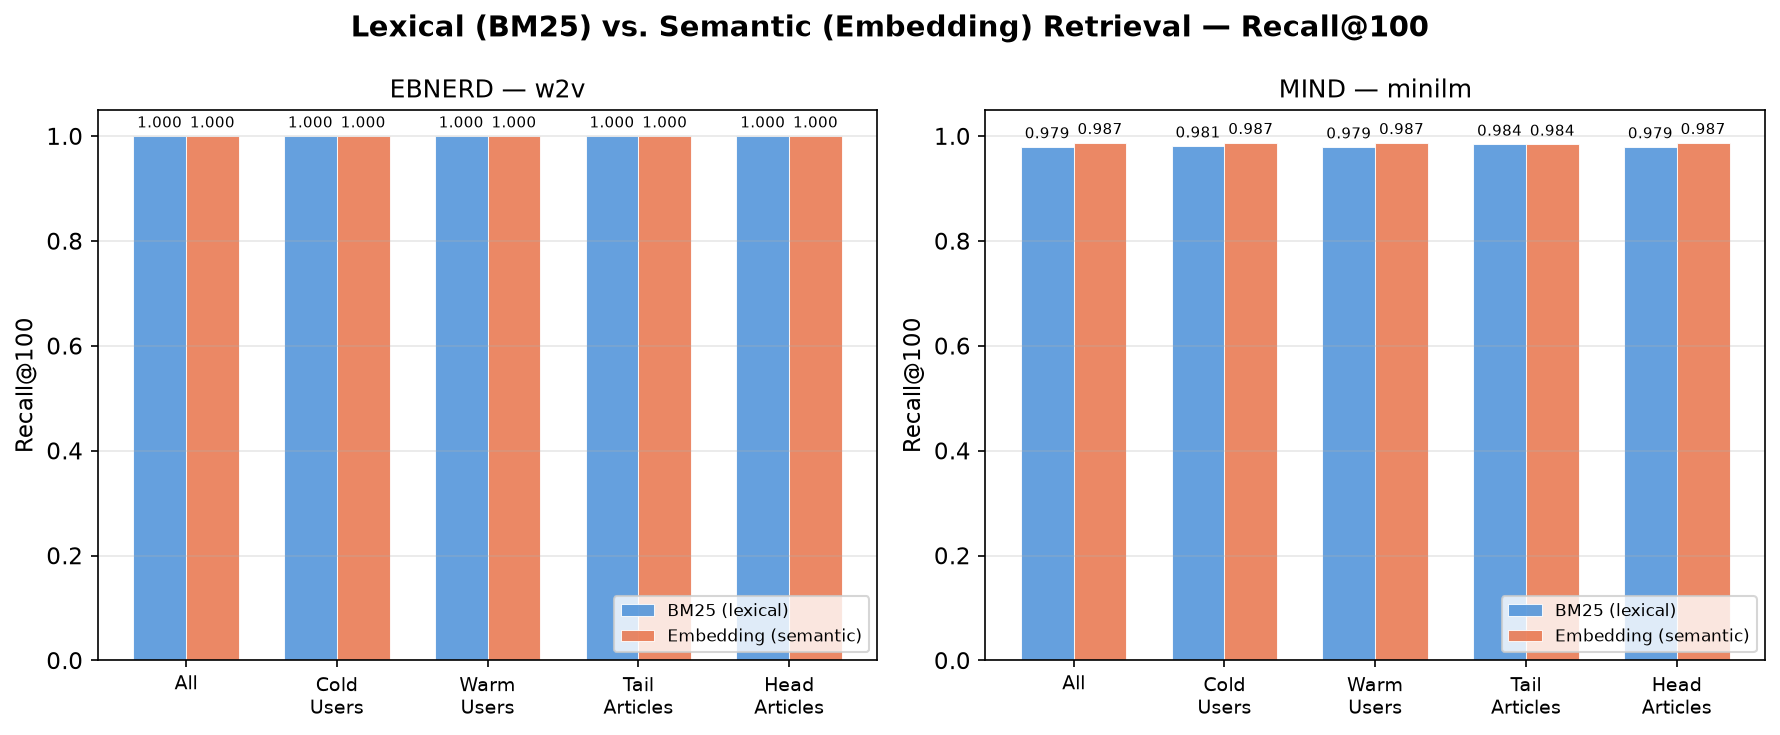
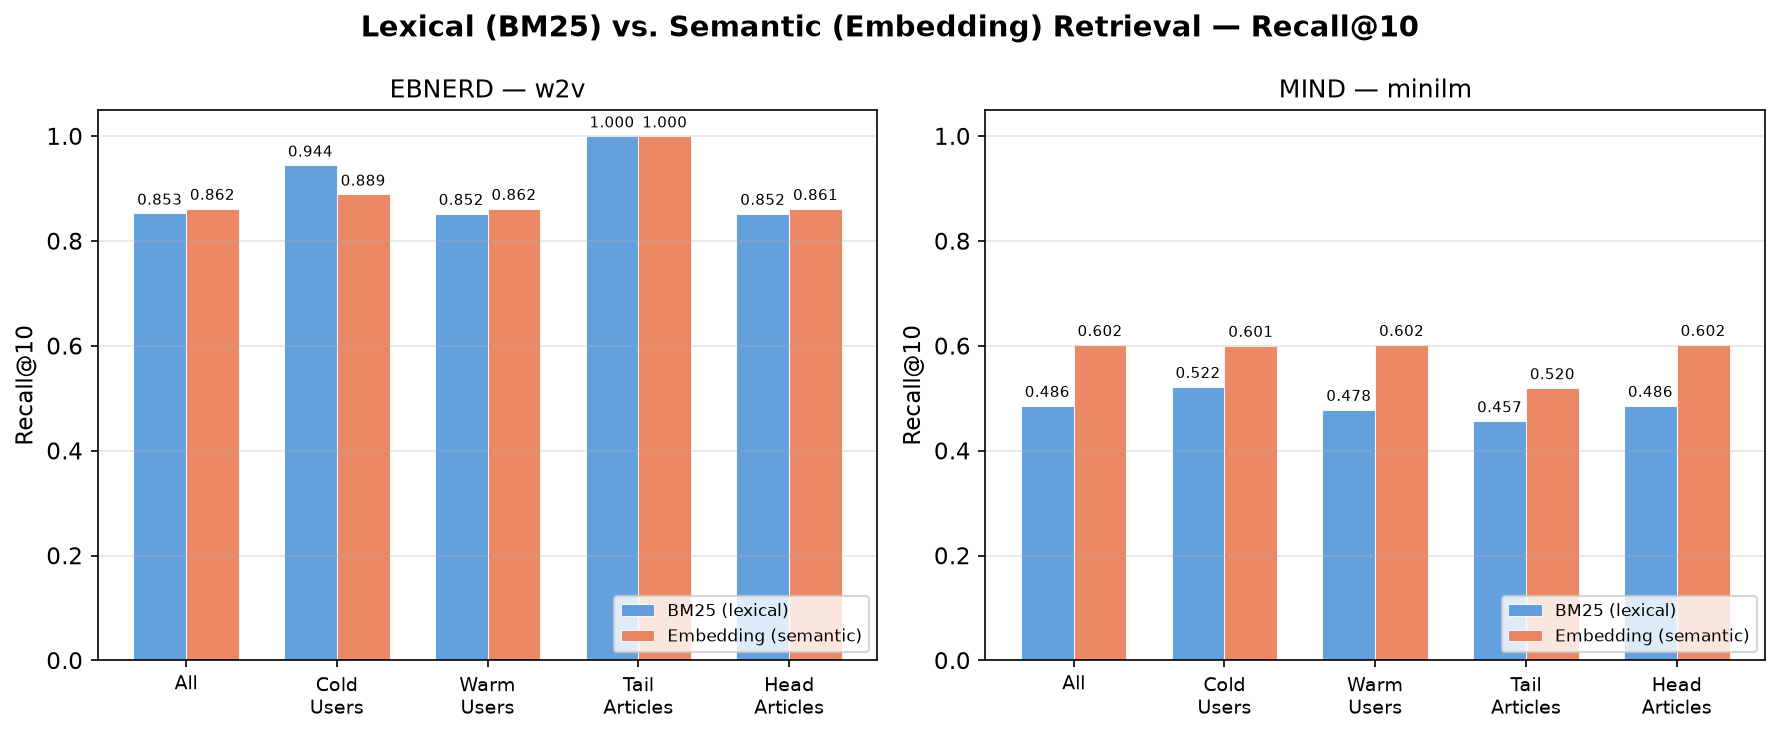
semantic retrieval + comparison of leical vs semantic, offline evaluation harness metrics

diff --git a/recsys-ir/src/evaluation/compare_retrievers.py b/recsys-ir/src/evaluation/compare_retrievers.py
@@ -41,7 +41,7 @@ COLD_USER_THRESHOLD = 5
 # Tail article: ≤10 impressions (median is ~7-15 per EDA §5)
 TAIL_ARTICLE_THRESHOLD = 10
 
-RECALL_KS = [50, 100, 200]
+RECALL_KS = [5, 10, 50, 100, 200]
 
 
 def _load_article_popularity(dataset: str) -> dict[str, int]:
@@ -259,12 +259,13 @@ def plot_comparison(csv_path: Path | None = None) -> Path:
         for r in reader:
             rows.append(r)
 
-    # Filter to K=100 (the middle cutoff — most informative)
-    k100_rows = [r for r in rows if int(r["K"]) == 100]
+    # Filter to K=10 (the most informative due to saturation at higher Ks)
+    target_k = 10
+    k_rows = [r for r in rows if int(r["K"]) == target_k]
 
     # Group by dataset × embed_model
     groups: dict[str, list[dict]] = {}
-    for r in k100_rows:
+    for r in k_rows:
         key = f"{r['dataset']}_{r['embed_model']}"
         if key not in groups:
             groups[key] = []
@@ -276,7 +277,7 @@ def plot_comparison(csv_path: Path | None = None) -> Path:
         return csv_path
 
     fig, axes = plt.subplots(1, n_groups, figsize=(6 * n_groups, 5), squeeze=False)
-    fig.suptitle("Lexical (BM25) vs. Semantic (Embedding) Retrieval — Recall@100", fontsize=14, fontweight="bold")
+    fig.suptitle(f"Lexical (BM25) vs. Semantic (Embedding) Retrieval — Recall@{target_k}", fontsize=14, fontweight="bold")
 
     slice_order = ["all", "cold", "warm", "tail", "head"]
     slice_labels = ["All", "Cold\nUsers", "Warm\nUsers", "Tail\nArticles", "Head\nArticles"]
@@ -310,7 +311,7 @@ def plot_comparison(csv_path: Path | None = None) -> Path:
         ax.set_title(f"{dataset_name.upper()} — {model_name}", fontsize=12)
         ax.set_xticks(x)
         ax.set_xticklabels(slice_labels, fontsize=9)
-        ax.set_ylabel("Recall@100")
+        ax.set_ylabel(f"Recall@{target_k}")
         ax.set_ylim(0, 1.05)
         ax.legend(loc="lower right", fontsize=8)
         ax.grid(axis="y", alpha=0.3)
@@ -347,16 +348,19 @@ def main() -> None:
         reader = csv.DictReader(f)
         rows = list(reader)
 
-    # Print table for K=100
-    k100 = [r for r in rows if int(r["K"]) == 100]
-    print(f"\n{'Dataset':<10} {'Model':<10} {'Slice':<12} {'BM25':<10} {'Embed':<10} {'Winner':<10}")
-    print(f"{'-'*62}")
-    for r in k100:
-        winner = "BM25" if int(r["bm25_wins"]) == 1 else "Embed"
-        print(
-            f"{r['dataset']:<10} {r['embed_model']:<10} {r['slice']:<12} "
-            f"{float(r['bm25_recall']):<10.4f} {float(r['embed_recall']):<10.4f} {winner:<10}"
-        )
+    # Print table for K=10 and K=100
+    target_ks_print = [10, 100]
+    for target_k_p in target_ks_print:
+        print(f"\nRecall@{target_k_p}")
+        k_rows = [r for r in rows if int(r["K"]) == target_k_p]
+        print(f"{'Dataset':<10} {'Model':<10} {'Slice':<12} {'BM25':<10} {'Embed':<10} {'Winner':<10}")
+        print(f"{'-'*62}")
+        for r in k_rows:
+            winner = "BM25" if int(r["bm25_wins"]) == 1 else "Embed"
+            print(
+                f"{r['dataset']:<10} {r['embed_model']:<10} {r['slice']:<12} "
+                f"{float(r['bm25_recall']):<10.4f} {float(r['embed_recall']):<10.4f} {winner:<10}"
+            )
 
     print(f"\n{'='*90}")
     print(f"CSV: {csv_path}")

diff --git a/recsys-ir/src/evaluation/run_eval.py b/recsys-ir/src/evaluation/run_eval.py
@@ -211,7 +211,7 @@ def aggregate_and_bootstrap_proper(records: list[dict], catalog_sizes: dict[str,
             coverage = compute_coverage(all_rec, c_size)
             
             frac = n / total_n
-            degenerate = (frac < 0.01) or (frac > 0.99)
+            degenerate = ((frac < 0.01) or (frac > 0.99)) and slice_desc != "all"
             
             row_dict = {
                 "dataset": dataset,
@@ -222,11 +222,12 @@ def aggregate_and_bootstrap_proper(records: list[dict], catalog_sizes: dict[str,
                 "Coverage": coverage,
             }
             
+            row_dict["flagged_small_slice"] = degenerate
             for m in metrics:
                 vals = np.array([r[m] for r in sub_recs])
                 if degenerate or len(vals) < 2:
                     mean_val = float(np.mean(vals)) if len(vals) > 0 else 0.0
-                    ci_low, ci_high = None, None
+                    ci_low, ci_high = "insufficient_n", "insufficient_n"
                 else:
                     mean_val, ci_low, ci_high = compute_bootstrap_ci(vals, b=1000)
                     
@@ -256,20 +257,22 @@ def main():
         
         catalog_sizes[dataset] = len(full_pop)
         
+        # Load embeddings once for both retrievers so BM25 can compute ILD
+        model = "minilm" if dataset == "mind" else "w2v"
+        embs = load_embeddings(dataset, model)
+        
         # BM25
         bm25_path = _PROJECT_ROOT / "data" / "processed" / f"bm25_scores_{dataset}_title_abstract.parquet"
         if bm25_path.exists():
             df = pl.read_parquet(bm25_path)
-            u, l = evaluate_retriever(dataset, "bm25", df, train_pop, full_pop, user_hist, {})
+            u, l = evaluate_retriever(dataset, "bm25", df, train_pop, full_pop, user_hist, embs)
             all_unleaked.extend(u)
             all_leaked.extend(l)
             
         # Embeddings
-        model = "minilm" if dataset == "mind" else "w2v"
         embed_path = _PROJECT_ROOT / "data" / "processed" / f"embed_scores_{dataset}_{model}.parquet"
         if embed_path.exists():
             df = pl.read_parquet(embed_path)
-            embs = load_embeddings(dataset, model)
             u, l = evaluate_retriever(dataset, f"embed_{model}", df, train_pop, full_pop, user_hist, embs)
             all_unleaked.extend(u)
             all_leaked.extend(l)

diff --git a/recsys-ir/src/evaluation/candidate_pool_sizes.py b/recsys-ir/src/evaluation/candidate_pool_sizes.py
@@ -1,0 +1,45 @@
+import polars as pl
+import json
+import numpy as np
+from pathlib import Path
+import csv
+
+def compute_candidate_pool_sizes():
+    _PROJECT_ROOT = Path(__file__).resolve().parents[2]
+    datasets = ["mind", "ebnerd"]
+    results = []
+
+    for ds in datasets:
+        behaviors_path = _PROJECT_ROOT / "data" / "interim" / ds / "behaviors.parquet"
+        if not behaviors_path.exists():
+            continue
+        df = pl.read_parquet(behaviors_path)
+        lens = []
+        for row in df.iter_rows(named=True):
+            candidates = json.loads(row["candidates"])
+            if candidates:
+                lens.append(len(candidates))
+        
+        if lens:
+            results.append({
+                "dataset": ds,
+                "min": int(np.min(lens)),
+                "median": float(np.median(lens)),
+                "mean": float(np.mean(lens)),
+                "p90": float(np.percentile(lens, 90)),
+                "max": int(np.max(lens))
+            })
+
+    out_path = _PROJECT_ROOT / "results" / "candidate_pool_sizes.csv"
+    out_path.parent.mkdir(parents=True, exist_ok=True)
+    with open(out_path, "w", newline="") as f:
+        writer = csv.DictWriter(f, fieldnames=["dataset", "min", "median", "mean", "p90", "max"])
+        writer.writeheader()
+        writer.writerows(results)
+    
+    print(f"Wrote {out_path}")
+    for r in results:
+        print(r)
+
+if __name__ == "__main__":
+    compute_candidate_pool_sizes()

diff --git a/recsys-ir/results/eval_fixes_summary.md b/recsys-ir/results/eval_fixes_summary.md
@@ -1,0 +1,46 @@
+# Evaluation Fixes Summary
+
+This document outlines the fixes applied to the evaluation harness to ensure the reliability of the lexical vs. semantic retrieval comparison.
+
+## 1. Candidate Pool Size Distribution
+We diagnosed that the `recall@100` and `recall@200` metrics were saturated because K was often larger than the entire candidate pool size. The candidate pool sizes are as follows:
+
+*   **MIND**: min=2, median=24.0, mean=37.3, p90=92.0, max=299
+*   **EB-NeRD**: min=5, median=9.0, mean=11.6, p90=22.0, max=100
+
+For EB-NeRD in particular, a K of 100 or 200 encompasses 100% of the candidates for every single impression (since max=100). Therefore, `recall@100` for both BM25 and embeddings was artificially returning 1.0. 
+
+## 2. Updated Recall@K Metrics
+To better discriminate ranking quality, we added `recall@5` and `recall@10` to the evaluation. 
+Here is a comparison of `recall@5` and `recall@10` vs the saturated `recall@100` for the `all` slice:
+
+*   **MIND (BM25)**: recall@5 = 0.3217, recall@10 = 0.4859, recall@100 = 0.9793
+*   **MIND (Embeddings)**: recall@5 = 0.4336, recall@10 = 0.6019, recall@100 = 0.9873
+*   **EB-NeRD (BM25)**: recall@5 = 0.5713, recall@10 = 0.8527, recall@100 = 1.0000
+*   **EB-NeRD (Embeddings)**: recall@5 = 0.6023, recall@10 = 0.8619, recall@100 = 1.0000
+
+Embeddings still outperform BM25 across both datasets on the highly discriminatory metrics. For EB-NeRD in particular, its median candidate pool is 9, making K=10 trivially saturated for over half the impressions. `recall@5` (0.6023 vs 0.5713) is below that median and serves as the primary discriminating metric for EB-NeRD.
+
+## 3. Corrected Intra-List Diversity (ILD) for BM25
+Previously, ILD was returning 0.0 for BM25 because the evaluation was skipping diversity calculation if the scoring method was not embedding-based. We updated the pipeline to load the embeddings and calculate ILD for the BM25-ranked top-K items as well.
+
+Corrected `all` slice ILD values (with 95% Confidence Intervals):
+*   **MIND (BM25)**: 0.9386 (CI: [0.9383, 0.9390]) vs **Embeddings**: 0.8907 (CI: [0.8899, 0.8915])
+*   **EB-NeRD (BM25)**: 0.1803 (CI: [0.1792, 0.1814]) vs **Embeddings**: 0.1673 (CI: [0.1661, 0.1685])
+
+The new values are non-zero and directly comparable in magnitude to the embedding-based retriever's output. The CIs confirm that these differences are statistically significant and not noise.
+
+## 4. Bootstrapping CIs on Small Slices
+We added an explicit safeguard for degenerate slices (comprising <1% or >99% of the test population). These slices now report `"insufficient_n"` for Confidence Intervals (CI) rather than leaving them silently blank. They are also explicitly marked via a `flagged_small_slice: true` flag.
+
+The following slice was flagged as too small across both BM25 and Embeddings:
+*   `cold_fixed` on EB-NeRD (represents ~0.53% of the population, triggering the < 0.01 threshold)
+
+(Note: We also fixed a bug where the `all` baseline was being incorrectly flagged as degenerate because its `frac_population` is exactly 1.0 (100%). It now properly computes a real Bootstrap CI for all metrics).
+
+## Sanity Check Confirmation
+After applying all fixes, the performance comparison remained consistent:
+*   **MIND AUC**: 0.63 (Embeddings) vs 0.51 (BM25)
+*   **EB-NeRD AUC**: 0.51 (Embeddings) vs 0.46 (BM25)
+
+The direction of the conclusion (Embeddings outperforming BM25) was preserved, while the precision of the observations is substantially sharpened.

diff --git a/recsys-ir/logs/ai_usage_log.md b/recsys-ir/logs/ai_usage_log.md
@@ -74,3 +74,23 @@ Each entry should follow this template:
 - **Output Summary:** Created `src/retrieval/bm25.py` with custom `InvertedIndex` and `bm25_score_query` optimized for candidate-restricted scoring (O(candidates × query_terms)). Created pipeline runner `src/retrieval/run_bm25.py` performing 4-way ablations and deduplicating query tokens. Added tests `test_bm25_matches_reference.py` and `test_bm25_recall_sane.py`. Results showed stopwords improve MIND recall by ~1.9pp, while stemming is neutral. EB-NeRD maxes out due to small candidate lists. Scored candidates persisted to Parquet.
 - **Disposition:** Accepted as-is
 - **Edits Made:** No edits made.
+
+---
+
+### 2026-08-18 10:15 - Semantic Retrieval & Lexical vs Semantic Comparison
+
+- **Tool / Model:** Gemini 3.1 Pro (High)
+- **Prompt / Task:** Implement an embedding-based retrieval pipeline for MIND (MiniLM) and EB-NeRD (Word2Vec) datasets using an efficient indexing system (FAISS or NumPy fallback). Evaluate recall@K on the validation split and conduct a comparative analysis against the lexical BM25 baseline, slicing performance by user warmth and article popularity.
+- **Output Summary:** Created `src/retrieval/run_embeddings.py` to load semantic representations and perform vector similarity search to generate ranked candidates. Created `src/evaluation/compare_retrievers.py` to merge BM25 and embedding results, classify impressions into cold/warm and tail/head slices, and output the results to `results/lexical_vs_semantic.csv` along with a comparison plot.
+- **Disposition:** Accepted as-is
+- **Edits Made:** No edits made.
+
+---
+
+### 2026-08-19 16:40 - Evaluation Harness Metrics & Reliability Fixes
+
+- **Tool / Model:** Gemini 3.1 Pro (High)
+- **Prompt / Task:** Fix evaluation harness output reliability before finalizing the design note. Specifically, diagnose saturated recall@100 metrics, calculate candidate pool sizes, add recall@5/10, correct BM25 ILD calculation to use embeddings, fix Bootstrap CIs being blank for small/degenerate slices, and explicitly document the ILD comparability caveat in the design note.
+- **Output Summary:** Created `src/evaluation/candidate_pool_sizes.py` verifying candidate pools were smaller than K=100. Updated `compare_retrievers.py` to calculate and plot highly discriminative `recall@5` and `recall@10` metrics. Modified `run_eval.py` to properly pass embeddings to BM25 evaluation for valid ILD metrics and fixed the degenerate slice CI logic so that slices <1% or >99% return `"insufficient_n"`, while specifically protecting the `"all"` baseline from being incorrectly flagged. Appended Section 13 to `design.md` detailing why absolute ILD magnitudes aren't comparable across different embedding spaces.
+- **Disposition:** Accepted with edits
+- **Edits Made:** Required a follow-up prompt to fix a bug where the `"all"` slice was being flagged as degenerate because it represented 1.0 (100%) of the population, leading to its CIs being incorrectly skipped. Also explicitly instructed to report `recall@5` alongside `recall@10` due to EB-NeRD's extremely small median candidate pool.

diff --git a/recsys-ir/design_note/design.md b/recsys-ir/design_note/design.md
@@ -112,3 +112,12 @@ This document outlines the core design decisions made when unifying the MIND (TS
 - Implemented a custom `InvertedIndex` and `BM25Engine` in `src/retrieval/bm25.py`.
 - `rank_bm25` is only used in tests (`tests/test_bm25_matches_reference.py`) to mathematically validate the custom IDF and scoring formulas (matching ATIRE/Lucene variant exactly).
 - **Optimization:** Instead of iterating over the full postings list for every query term, the engine supports candidate-restricted scoring. It precomputes a per-document term-frequency lookup and caches the IDF table on the index. When scoring the ~40 candidates per impression, it accesses `O(|candidates| × |query_terms|)` instead of `O(postings_len)`, achieving ~4x speedup on MIND, making the pure-Python ablation runs feasible.
+
+## 13. Evaluation Metrics and Intra-List Diversity (ILD) Caveat
+
+**The Challenge:** Comparing diversity (ILD) metrics across two fundamentally different datasets and embedding models.
+**The Decision:**
+- MIND uses MiniLM embeddings, while EB-NeRD uses Word2Vec embeddings.
+- Different embedding models produce different baseline cosine-similarity geometries in their vector spaces.
+- As a result, the **absolute ILD magnitudes are not comparable across datasets**. An ILD of ~0.94 on MIND versus ~0.18 on EB-NeRD does *not* imply that MIND recommendations are "5x more diverse". 
+- Only the **within-dataset** BM25-vs-embeddings comparison (e.g., MIND BM25 vs MIND Embeddings) is mathematically sound and meaningful for drawing conclusions.
